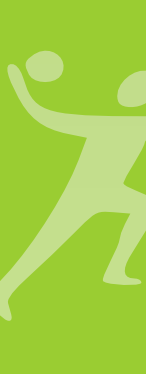
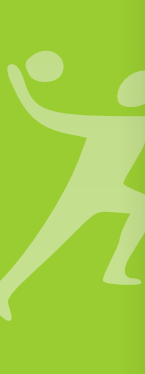
Modifications to design, background, menu, headers.

diff --git a/site_media/base.css b/site_media/base.css
@@ -152,10 +152,10 @@ ul.compact img {
 	margin: 4px 0;
 }
 #main {
-	background: url("bg.png") repeat-x;
 	width: 800px;
 	margin: 0 auto 10px auto;
 	position: relative;
+	background: url("menu.png") repeat-y;
 }
 #header {
 	background: url("header.png") repeat-x;
@@ -289,15 +289,24 @@ ul.compact img {
 #content {
 	font-family: Tahoma, sans-serif;
 	font-size: 9pt;
-	padding: 0 20px 20px 160px;
+	margin-left: 145px;
+	padding: 10px 20px 20px 14px;
 	border: 1px silver solid;
-	min-height: 400px;
+	min-height: 458px;
+	background: url("bg.png") repeat-x;
 }
 #content-wide {
 	font-family: Tahoma, sans-serif;
 	font-size: 9pt;
 	padding: 0 20px 20px 20px;
 	border: 1px silver solid;
+	background: url("bg.png") repeat-x;
+}
+#content h3 {
+	font-size: 140%;
+	font-family: Verdana, sans-serif;
+	width: 400px;
+	margin: 15px 0 15px 0;
 }
 #content table.standard {
 	border: 1px solid silver;
